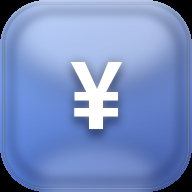
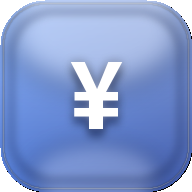
体验与健壮性优化：导入前预览确认、金额改整数分存储、图标去黑角并区分any/maskable、xlsx日期序列号识别、记账页延后统计重绘、导入提醒按月持久化

diff --git a/index.html b/index.html
@@ -261,6 +261,19 @@
   }
   .confirm-note{text-align:center;color:var(--ink-2);font-size:14px;margin:0 0 6px;}
   #confirmOverlay{z-index:55;}
+  /* ===== 导入预览确认 ===== */
+  .pv-summary{font-size:13px;color:var(--ink);margin:2px 0 10px;line-height:1.7;}
+  .pv-summary .pv-cats{color:var(--ink-2);font-size:12px;}
+  .pv-list{max-height:46vh;overflow-y:auto;border-top:1px solid #eef1f6;margin-bottom:6px;}
+  .pv-item{display:flex;align-items:center;gap:8px;padding:9px 2px;border-bottom:1px solid #f2f4f8;font-size:13px;}
+  .pv-item:last-child{border-bottom:none;}
+  .pv-date{color:var(--ink-3);font-size:12px;white-space:nowrap;}
+  .pv-cat{color:var(--ink);white-space:nowrap;max-width:88px;overflow:hidden;text-overflow:ellipsis;}
+  .pv-note{flex:1;min-width:0;color:var(--ink-2);white-space:nowrap;overflow:hidden;text-overflow:ellipsis;}
+  .pv-amt{font-weight:700;white-space:nowrap;}
+  .pv-amt.expense{color:var(--expense);}
+  .pv-amt.income{color:var(--income);}
+  .pv-more{text-align:center;color:var(--ink-3);font-size:12px;padding:8px 0;}
 
   .toast{
     position:fixed;bottom:calc(env(safe-area-inset-bottom,0px) + 130px);left:50%;transform:translateX(-50%);z-index:60;
@@ -447,6 +460,19 @@
   </div>
 </div>
 
+<!-- 导入预览确认 -->
+<div class="overlay" id="previewOverlay">
+  <div class="sheet">
+    <div class="grab"></div>
+    <h2>确认导入</h2>
+    <div class="pv-summary" id="pvSummary"></div>
+    <div class="pv-list" id="pvList"></div>
+    <button class="save-btn" id="pvConfirm">确认导入</button>
+    <button class="delete-btn" id="pvCancel" style="color:var(--primary);background:#fff;border:1.5px solid var(--primary);">取消</button>
+    <div class="bk-tip" style="margin-top:12px;">重复的账单会自动跳过，无需担心。</div>
+  </div>
+</div>
+
 <!-- 月份选择器 -->
 <div class="overlay" id="monthOverlay">
   <div class="sheet">
@@ -540,11 +566,24 @@ let budget = loadBudget(); // {total:Number, cats:{Name:Number}}
   }
   if(changed) saveBudget();
 })();
+// 一次性迁移：旧的「金额以元存储」改为「整数分」，避免浮点误差
+const CENTS_FLAG = 'expense-cents-v1';
+(function(){
+  if(localStorage.getItem(CENTS_FLAG)) return;
+  data.forEach(t => { t.amount = toCents(t.amount); });
+  budget.total = toCents(budget.total);
+  if(budget.cats && typeof budget.cats==='object'){
+    Object.keys(budget.cats).forEach(k => { budget.cats[k] = toCents(budget.cats[k]); });
+  }
+  localStorage.setItem(CENTS_FLAG,'1');
+  save(); saveBudget();
+})();
 let viewMonth = currentMonth(); // YYYY-MM
 let viewCat = '';               // 分类筛选：''=全部
 let currentTab = 'ledger';
 let editingId = null;
 let pickerYear = new Date().getFullYear(); // 月份选择器当前展示的年份
+let statsDirty = true;                     // 统计页是否待重绘（记账页时延后）
 
 function load(){
   try{
@@ -573,7 +612,8 @@ function closeBackup(){ document.getElementById('backupOverlay').classList.remov
 function exportBackup(){
   const payload = {
     app: '月度记账',
-    version: 1,
+    version: 2,
+    unit: 'cents',
     exportedAt: new Date().toISOString(),
     budget: budget,
     data: data
@@ -597,16 +637,21 @@ function restoreBackupText(text){
     const obj = JSON.parse(text);
     const arr = Array.isArray(obj) ? obj : (obj.data||[]);
     if(!Array.isArray(arr)){ toast('备份文件格式不正确'); return; }
+    // 老版本导出金额以「元」存储，转成「分」保持一致（v2 / unit=cents 的备份已是分）
+    const isCents = !!(obj && (obj.unit==='cents' || ((obj.version||0)>=2)));
     let added = 0, skipped = 0;
     arr.forEach(r => {
       if(!r || !r.id){ return; }
-      const dup = data.some(t => t.id===r.id) || isDup(r);
+      const rec = isCents ? r : Object.assign({}, r, {amount: toCents(r.amount)});
+      const dup = data.some(t => t.id===rec.id) || isDup(rec);
       if(dup){ skipped++; }
-      else { data.push(r); added++; }
+      else { data.push(rec); added++; }
     });
     // 同步预算
     if(obj && obj.budget && typeof obj.budget==='object'){
-      budget = {total: parseFloat(obj.budget.total)||0, cats: (obj.budget.cats||{})};
+      budget = { total: isCents ? (parseInt(obj.budget.total)||0) : toCents(obj.budget.total),
+                 cats: (obj.budget.cats||{}) };
+      if(!isCents){ Object.keys(budget.cats).forEach(k => { budget.cats[k] = toCents(budget.cats[k]); }); }
       saveBudget();
     }
     save();
@@ -635,13 +680,18 @@ function esc(s){
 function catName(name){ for(const c of CATEGORIES){ if(c.name===name) return c; } return CATEGORIES[CATEGORIES.length-1]; }
 function channelName(n){ for(const c of CHANNELS){ if(c.name===n) return c; } return CHANNELS[4]; }
 function channelColor(n){ return channelName(n).color; }
-function fmt(n){
-  const num = parseFloat(n) || 0;
-  return num.toLocaleString('zh-CN', {minimumFractionDigits:2, maximumFractionDigits:2});
+function toCents(x){
+  const n = parseFloat(x);
+  if(!isFinite(n)) return 0;
+  return Math.round(n*100);
 }
-function fmtSci(n){
-  const num = parseFloat(n) || 0;
-  return num.toLocaleString('zh-CN', {maximumFractionDigits:2});
+function fmt(n){ // 输入为「分」，显示为元（两位小数）
+  const c = Math.round(parseFloat(n)||0);
+  return (c/100).toLocaleString('zh-CN', {minimumFractionDigits:2, maximumFractionDigits:2});
+}
+function fmtSci(n){ // 输入为「分」，显示为元（最多两位）
+  const c = Math.round(parseFloat(n)||0);
+  return (c/100).toLocaleString('zh-CN', {maximumFractionDigits:2});
 }
 function monthTransactions(m){
   return data.filter(t => (t.date||'').slice(0,7) === m);
@@ -805,7 +855,7 @@ function renderBudgetEditor(list, exp){
   const totalIn = document.getElementById('budgetTotal');
   // 只在容器隐藏/未聚焦时刷新数值，避免打字被覆盖
   if(document.activeElement !== totalIn){
-    totalIn.value = totalBudget()>0 ? totalBudget() : '';
+    totalIn.value = totalBudget()>0 ? (totalBudget()/100) : '';
   }
   // 分类预算行
   const wrap = document.getElementById('budgetCats');
@@ -818,7 +868,7 @@ function renderBudgetEditor(list, exp){
       <span class="bc-emoji">${c.emoji}</span>
       <span class="bc-name">${c.name}</span>
       <input class="bc-in" data-cat="${c.name}" type="number" inputmode="decimal" min="0" step="1"
-        placeholder="不限" value="${b>0?b:''}" ${over?'style="color:var(--expense);font-weight:700;border-bottom-color:var(--expense);"':''}>
+        placeholder="不限" value="${b>0?(b/100):''}" ${over?'style="color:var(--expense);font-weight:700;border-bottom-color:var(--expense);"':''}>
       <span class="bc-used" style="color:${over?'var(--expense)':'var(--ink-3)'}">${fmtSci(used)}</span>
     </div>`;
   }).join('');
@@ -828,10 +878,11 @@ function renderBudgetEditor(list, exp){
     if(!inp) return;
     const name = inp.dataset.cat;
     const v = parseFloat(inp.value);
-    if(v>0) budget.cats[name]=v; else delete budget.cats[name];
+    const cents = toCents(v);
+    if(cents>0) budget.cats[name]=cents; else delete budget.cats[name];
     saveBudget();
     const used = list.filter(t=>t.type==='expense' && t.category===name).reduce((s,t)=>s+(parseFloat(t.amount)||0),0);
-    if(v>0 && used>v){ inp.style.color='var(--expense)'; inp.style.fontWeight='700'; inp.style.borderBottomColor='var(--expense)'; }
+    if(cents>0 && used>cents){ inp.style.color='var(--expense)'; inp.style.fontWeight='700'; inp.style.borderBottomColor='var(--expense)'; }
     else { inp.style.color='var(--ink)'; inp.style.fontWeight='400'; inp.style.borderBottomColor='#d5dbe6'; }
     renderHeader();
   };
@@ -959,7 +1010,7 @@ function openSheet(id){
   setType(id ? (data.find(t=>t.id===id).type) : 'expense');
   setCat(id ? data.find(t=>t.id===id).category : '餐饮');
   formChannel = id ? (data.find(t=>t.id===id).channel || '其他') : '其他';
-  document.getElementById('amount').value = id ? data.find(t=>t.id===id).amount : '';
+  document.getElementById('amount').value = id ? (data.find(t=>t.id===id).amount/100) : '';
   document.getElementById('note').value = id ? (data.find(t=>t.id===id).note||'') : '';
   document.getElementById('date').value = id ? data.find(t=>t.id===id).date : todayStr();
   document.getElementById('sheetTitle').textContent = id ? '编辑' : (formType==='expense'?'记一笔支出':'记一笔收入');
@@ -1023,8 +1074,8 @@ function toast(msg){
 }
 
 function saveEntry(){
-  const amount = parseFloat(document.getElementById('amount').value);
-  if(!amount || amount<=0){ toast('请输入有效金额'); return; }
+  const amount = toCents(document.getElementById('amount').value);
+  if(amount<=0){ toast('请输入有效金额'); return; }
   const cat = (document.querySelector('#catGrid .c.sel')||{}).dataset && document.querySelector('#catGrid .c.sel').dataset.name;
   const note = document.getElementById('note').value.trim();
   const date = document.getElementById('date').value || todayStr();
@@ -1185,38 +1236,81 @@ function pickFile(){
 }
 
 // 解析 → 写入（分帧更新进度，避免阻塞 UI）
+let pendingRecs = [];   // 待确认导入的记录（预览确认后再写入）
+
 function mergeAndFinish(text){
   updateProgress(0, '正在解析交易记录…');
-  let recs = null;
   setTimeout(() => {
+    let recs = [];
     try{ recs = parseBill(text); }
     catch(e){ recs = []; }
     if(!recs || recs.length===0){ hideProgress(); toast('未识别到有效的交易记录'); return; }
-    const before = data.length;
-    let added = 0, skipped = 0, i = 0;
-    const total = recs.length;
-    // 分帧批量写入，每帧处理一部分并刷新进度条
-    const BATCH = 250;
-    function step(){
-      const end = Math.min(i + BATCH, total);
-      for(; i<end; i++){
-        const r = recs[i];
-        if(!r) continue;
-        if(isDup(r)){ skipped++; }
-        else { data.push(r); added++; }
-      }
-      updateProgress(Math.round(i/total*100), `正在写入 ${i}/${total} 条…`);
-      if(i < total){
-        setTimeout(step, 0);   // 让出主线程，进度条可见、界面不卡
-      } else {
-        save(); renderAll(); hideProgress();
-        toast(`导入成功 ${added} 条${before?`，已跳过重复 ${skipped} 条`:''}`);
-        showContinueImport();   // 提示"再导一份"（如微信/支付宝第二份账单）
-      }
-    }
-    updateProgress(0, `解析完成，共 ${total} 条，开始写入…`);
-    setTimeout(step, 0);
+    pendingRecs = recs;
+    showImportPreview(recs);
   }, 30);
+}
+
+// 预览：展示识别出的记录与汇总，让用户确认后再写入
+function showImportPreview(recs){
+  hideProgress();
+  const exp = recs.filter(r=>r.type==='expense').reduce((s,r)=>s+(parseFloat(r.amount)||0),0);
+  const inc = recs.filter(r=>r.type==='income').reduce((s,r)=>s+(parseFloat(r.amount)||0),0);
+  const byCat = {};
+  recs.forEach(r=>{ if(r.type==='expense') byCat[r.category]=(byCat[r.category]||0)+1; });
+  const catStr = Object.keys(byCat).sort((a,b)=>byCat[b]-byCat[a])
+    .map(c=>`${catName(c).emoji} ${esc(c)} ×${byCat[c]}`).join('　');
+  document.getElementById('pvSummary').innerHTML =
+    `共识别 <b>${recs.length}</b> 条　支出 ¥${fmt(exp)}　收入 ¥${fmt(inc)}` +
+    (catStr?`<br><span class="pv-cats">${catStr}</span>`:'');
+  const MAX = 300;
+  const list = recs.slice(0, MAX).map(r=>{
+    const c = catName(r.category);
+    return `<div class="pv-item">
+      <span class="pv-date">${esc(r.date)}</span>
+      <span class="pv-cat">${esc(c.emoji)} ${esc(c.name)}</span>
+      <span class="pv-note">${esc(r.note||'')}</span>
+      <span class="pv-amt ${r.type==='income'?'income':'expense'}">${r.type==='income'?'+':'−'}${fmt(r.amount)}</span>
+    </div>`;
+  }).join('');
+  document.getElementById('pvList').innerHTML = list +
+    (recs.length>MAX?`<div class="pv-more">… 仅显示前 ${MAX} 条，共 ${recs.length} 条</div>`:'');
+  document.getElementById('pvConfirm').textContent = `确认导入 ${recs.length} 条`;
+  document.getElementById('previewOverlay').classList.add('show');
+}
+function closePreview(){ document.getElementById('previewOverlay').classList.remove('show'); }
+function confirmImport(){
+  const recs = pendingRecs;
+  if(!recs || !recs.length){ closePreview(); return; }
+  pendingRecs = [];
+  closePreview();
+  writeRecs(recs);
+}
+// 分帧批量写入（预览确认后调用）
+function writeRecs(recs){
+  const before = data.length;
+  let added = 0, skipped = 0, i = 0;
+  const total = recs.length;
+  showProgress('正在导入…');
+  const BATCH = 250;
+  function step(){
+    const end = Math.min(i + BATCH, total);
+    for(; i<end; i++){
+      const r = recs[i];
+      if(!r) continue;
+      if(isDup(r)){ skipped++; }
+      else { data.push(r); added++; }
+    }
+    updateProgress(Math.round(i/total*100), `正在写入 ${i}/${total} 条…`);
+    if(i < total){
+      setTimeout(step, 0);   // 让出主线程，进度条可见、界面不卡
+    } else {
+      save(); renderAll(); hideProgress();
+      toast(`导入成功 ${added} 条${before?`，已跳过重复 ${skipped} 条`:''}`);
+      showContinueImport();   // 提示"再导一份"（如微信/支付宝第二份账单）
+    }
+  }
+  updateProgress(0, `开始写入，共 ${total} 条…`);
+  setTimeout(step, 0);
 }
 
 // "再导一份" 浮动提示：显示 3.5 秒，点击继续选文件
@@ -1236,7 +1330,12 @@ function showContinueImport(){
 }
 
 // 每月导入提醒：有历史记录但上月缺失时，提示"该导账单了"
-let remindDismissed = false;   // 本会话内关闭后不再弹
+let remindDismissed = loadRemindDismissed();   // {YM:true} 已忽略的月份，持久化跨会话
+function loadRemindDismissed(){
+  try{ const o = JSON.parse(localStorage.getItem('expense-remind-dismissed')||'{}'); return (o && typeof o==='object') ? o : {}; }
+  catch(e){ return {}; }
+}
+function saveRemindDismissed(){ localStorage.setItem('expense-remind-dismissed', JSON.stringify(remindDismissed)); }
 function checkImportReminder(){
   const el = document.getElementById('importReminder');
   if(!el) return;
@@ -1247,7 +1346,7 @@ function checkImportReminder(){
   const lastYM = lm.getFullYear() + '-' + String(lm.getMonth()+1).padStart(2,'0');
   const hasHistory = data.length > 0;
   const lastEmpty = monthTransactions(lastYM).length === 0;
-  if(!hasHistory || !lastEmpty || remindDismissed){ el.style.display='none'; return; }
+  if(!hasHistory || !lastEmpty || remindDismissed[lastYM]){ el.style.display='none'; return; }
   // 上月无记录（无论本月状态）→ 提醒补导入
   const label = lm.getFullYear()+'年'+(lm.getMonth()+1)+'月';
   el.innerHTML = `
@@ -1255,8 +1354,8 @@ function checkImportReminder(){
     <button id="remindGo">去导入</button>
     <span class="x" id="remindX">✕</span>`;
   el.style.display = 'flex';
-  el.querySelector('#remindGo').onclick = ()=>{ el.style.display='none'; importBill(); };
-  el.querySelector('#remindX').onclick = ()=>{ remindDismissed = true; el.style.display='none'; };
+  el.querySelector('#remindGo').onclick = ()=>{ remindDismissed[lastYM]=true; saveRemindDismissed(); el.style.display='none'; importBill(); };
+  el.querySelector('#remindX').onclick = ()=>{ remindDismissed[lastYM]=true; saveRemindDismissed(); el.style.display='none'; };
 }
 
 // 简单 xlsx→CSV 文本转换（共享字符串 + 序列号日期 → 日期字符串），依赖 pako
@@ -1428,12 +1527,17 @@ function parseBill(text){
   const recs = [];
   for(let i=hi+1; i<rows.length; i++){
     const r = rows[i];
-    const time = (r[idx.time]||'').trim();
+    let time = (r[idx.time]||'').trim();
     const rawAmt = (r[idx.amt]||'').trim();
+    // 时间列可能是 Excel 日期序列号（如 45000），转成日期字符串
+    if(/^\d{4}-\d{1,2}-\d{1,2}/.test(time)){ /* 已是日期 */ }
+    else if(/^\d+(\.\d+)?$/.test(time) && parseFloat(time)>20000 && parseFloat(time)<90000){
+      time = excelDateToStr(Math.floor(parseFloat(time)));
+    }
     if(!/^\d{4}-\d{1,2}-\d{1,2}/.test(time) || !rawAmt) continue;
     // 金额可能为负或带 ¥/￥/空格，取绝对值
-    const amt = Math.abs(parseFloat(rawAmt.replace(/,/g,'').replace(/[¥￥]/g,'').trim()));
-    if(!isFinite(amt) || amt<=0) continue;
+    const amt = toCents(Math.abs(parseFloat(rawAmt.replace(/,/g,'').replace(/[¥￥]/g,'').trim())));
+    if(amt<=0) continue;
     const flowRaw = (r[idx.flow]||'').trim();
     // 中性交易（提现/充值/理财/还款等）：收/支为“/”或空，跳过，不计入收支
     if(!flowRaw || flowRaw==='/' || flowRaw==='—' || flowRaw==='-') continue;
@@ -1532,7 +1636,9 @@ function isDup(r){
 
 /* ============ 渲染总调度 ============ */
 function renderAll(){
-  renderHeader(); renderCatFilter(); renderLedger(); renderStats();
+  renderHeader(); renderCatFilter(); renderLedger();
+  if(currentTab==='stats'){ renderStats(); statsDirty=false; }
+  else { statsDirty=true; }
   checkImportReminder();
 }
 
@@ -1552,7 +1658,7 @@ function bind(){
 
   // 总预算输入（一次性绑定）
   document.getElementById('budgetTotal').addEventListener('input', ()=>{
-    const v = parseFloat(document.getElementById('budgetTotal').value);
+    const v = toCents(document.getElementById('budgetTotal').value);
     budget.total = v>0 ? v : 0;
     saveBudget();
     renderHeader();
@@ -1580,6 +1686,7 @@ function bind(){
       document.querySelectorAll('nav.tabs .tab').forEach(t=>t.classList.toggle('active', t===tab));
       document.getElementById('panel-ledger').classList.toggle('active', currentTab==='ledger');
       document.getElementById('panel-stats').classList.toggle('active', currentTab==='stats');
+      if(currentTab==='stats' && statsDirty){ renderStats(); statsDirty=false; }
     };
   });
 
@@ -1602,6 +1709,9 @@ function bind(){
   document.getElementById('confirmCancelBtn').onclick = closeConfirm;
   document.getElementById('confirmOverlay').addEventListener('click', e=>{ if(e.target===e.currentTarget) closeConfirm(); });
   overlay.addEventListener('click', e=>{ if(e.target===overlay) closeSheet(); });
+  document.getElementById('pvConfirm').onclick = confirmImport;
+  document.getElementById('pvCancel').onclick = closePreview;
+  document.getElementById('previewOverlay').addEventListener('click', e=>{ if(e.target===e.currentTarget) closePreview(); });
 
   // 备份 / 导入弹窗
   document.getElementById('backupBtn').onclick = openBackup;

diff --git a/service-worker.js b/service-worker.js
@@ -1,12 +1,14 @@
 /* 月度记账 - Service Worker
  * 缓存静态资源，让 PWA 离线可用。数据存在 localStorage，随之生效。 */
-const CACHE = 'expense-tracker-v5';
+const CACHE = 'expense-tracker-v6';
 const ASSETS = [
   './index.html',
   './manifest.json',
   './vendor/pako.min.js',
   './icons/icon-192.png',
   './icons/icon-512.png',
+  './icons/icon-maskable-192.png',
+  './icons/icon-maskable-512.png',
 ];
 
 self.addEventListener('install', (e) => {
